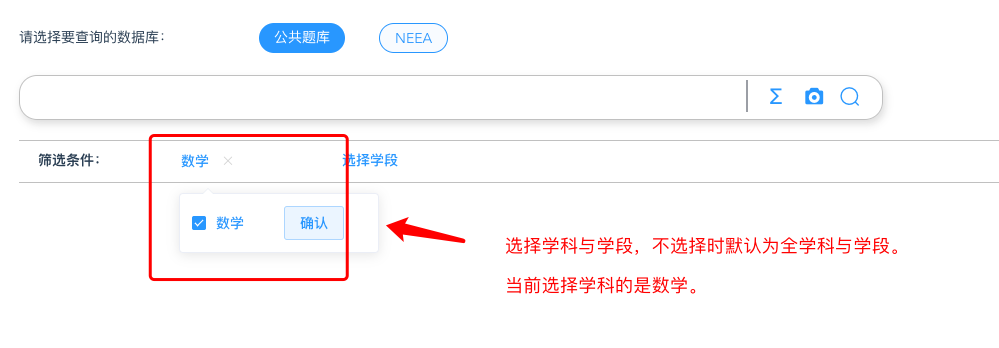
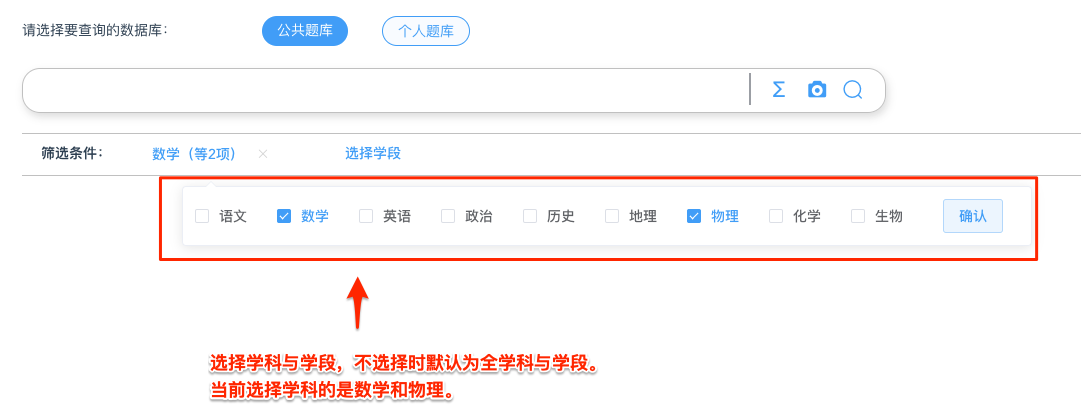
picture uodated

diff --git a/src/views/resourceQuery/Exercise.vue b/src/views/resourceQuery/Exercise.vue
@@ -582,7 +582,7 @@ export default {
           this.database_list.push({name:data[i]})
           this.database_aim.push(false)
         }
-        // this.database_list[1].name='个人题库'
+        this.database_list[1].name='个人题库'
       })
     },
     // 清除图片
